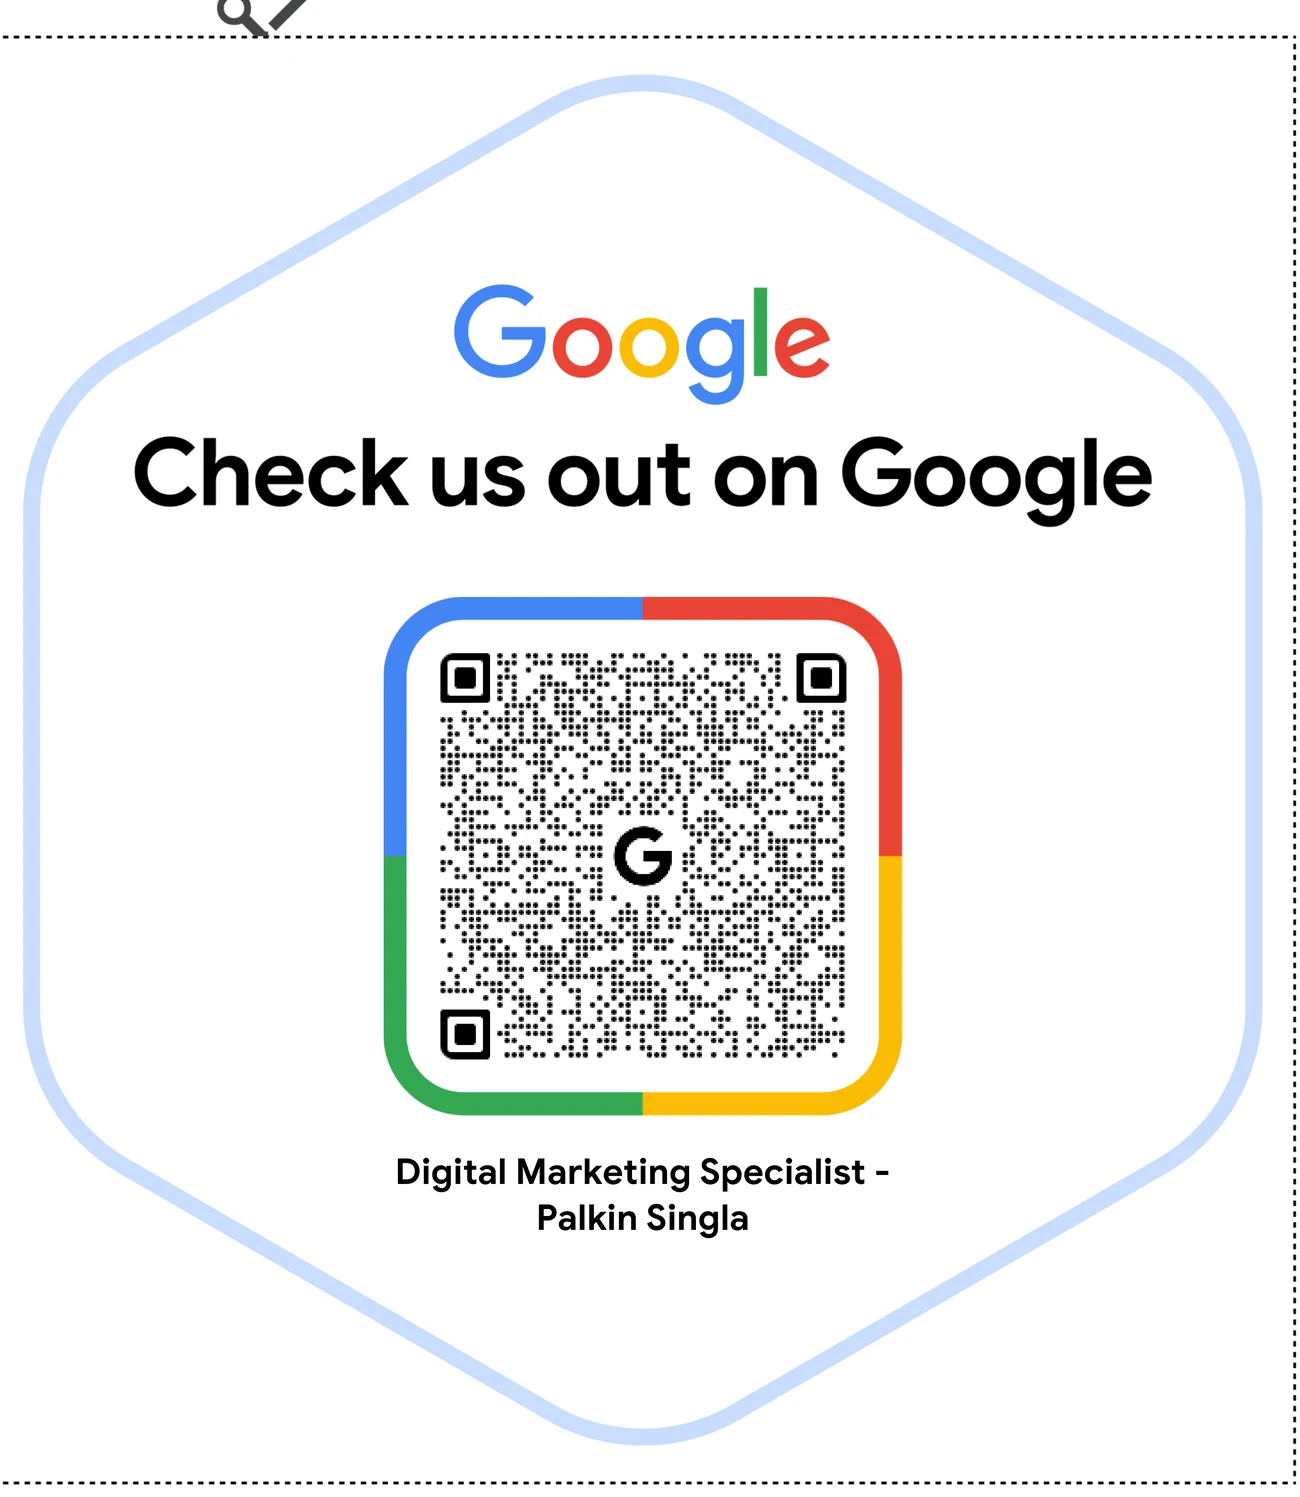
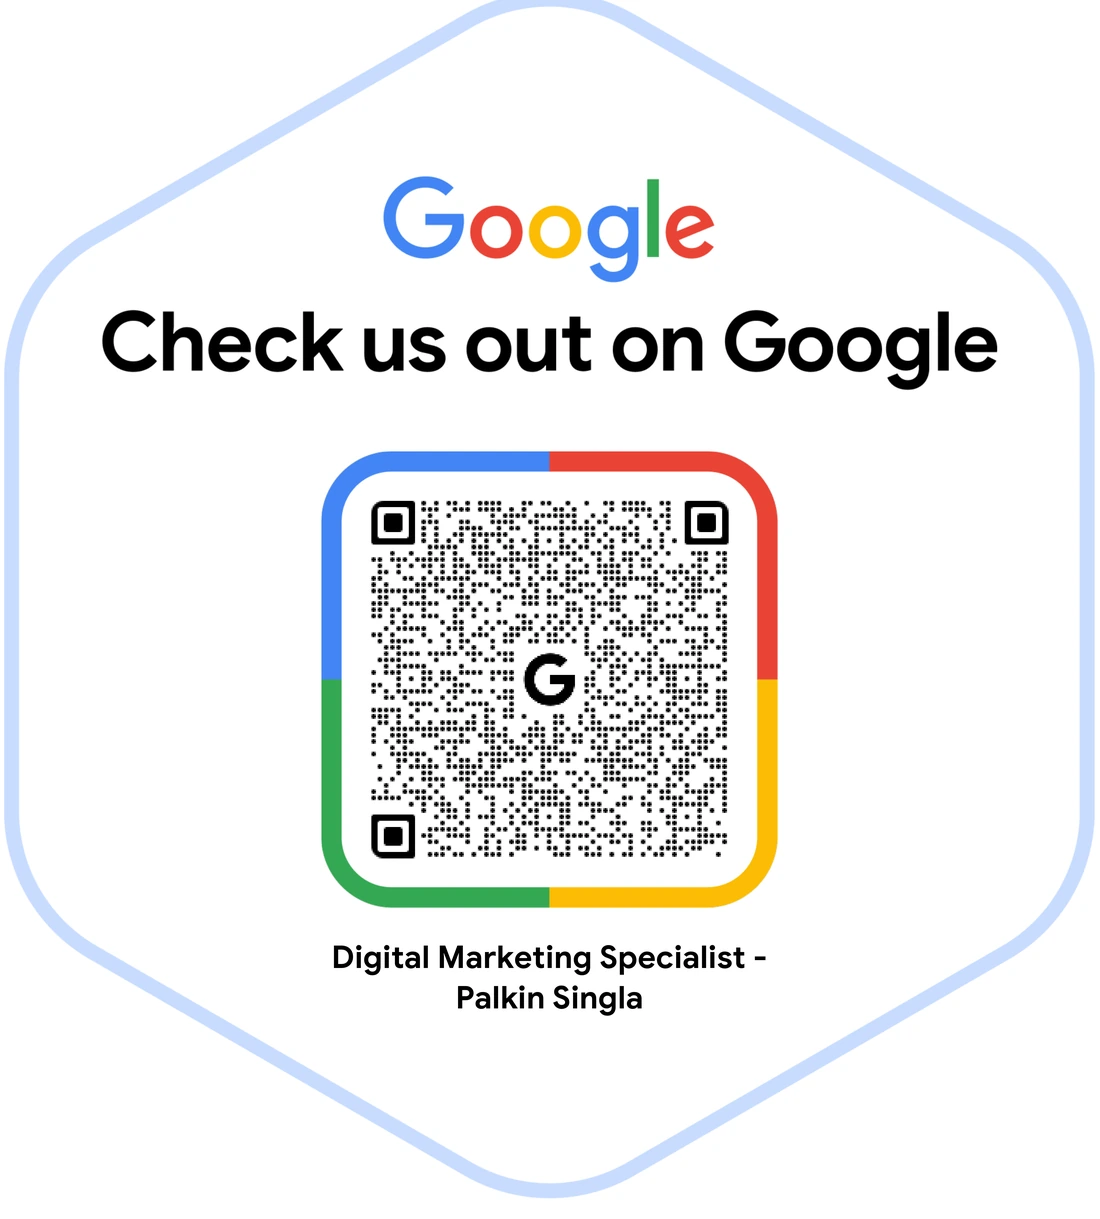
fix

Changed region(s): [[0.0, 0.0, 1.0, 0.9975], [0.3091, 0.7482, 0.68, 0.8417], [0.1545, 0.0, 0.2473, 0.0312]]

diff --git a/contact/index.html b/contact/index.html
@@ -70,10 +70,21 @@
 <span>Digital Marketing Specialist · Ambala, Haryana · Remote projects worldwide</span>
 </div>
 </div>
+<div class="gmb-visuals">
 <a aria-label="Open Palkin Singla Google Business Profile" class="gmb-qr-card" href="https://share.google/1AyFj4VQKHi9HxzHh" rel="noopener" target="_blank">
-<img alt="Google Business Profile QR code for Digital Marketing Specialist Palkin Singla" height="1497" loading="lazy" src="../assets/images/contact/google-business-profile-qr.webp" width="1300"/>
+<img alt="Google Business Profile QR code for Digital Marketing Specialist Palkin Singla" loading="lazy" src="../assets/images/contact/google-business-profile-qr.webp"/>
 <span>Scan or click to open on Google ↗</span>
 </a>
+<div class="gmb-map-card">
+<div class="gmb-map-frame">
+<iframe allowfullscreen="" aria-label="Map showing Palkin Singla Digital Marketing Specialist in Ambala, Haryana" loading="lazy" referrerpolicy="no-referrer-when-downgrade" src="https://www.google.com/maps?q=Digital%20Marketing%20Specialist%20Palkin%20Singla%20Ambala%20Haryana&amp;output=embed"></iframe>
+</div>
+<div class="gmb-map-footer">
+<div><strong>Ambala, Haryana</strong><span>Google Maps location</span></div>
+<a href="https://share.google/1AyFj4VQKHi9HxzHh" rel="noopener" target="_blank">View on Google Maps ↗</a>
+</div>
+</div>
+</div>
 </div>
 </section>
 <section class="section white"><div class="container">
